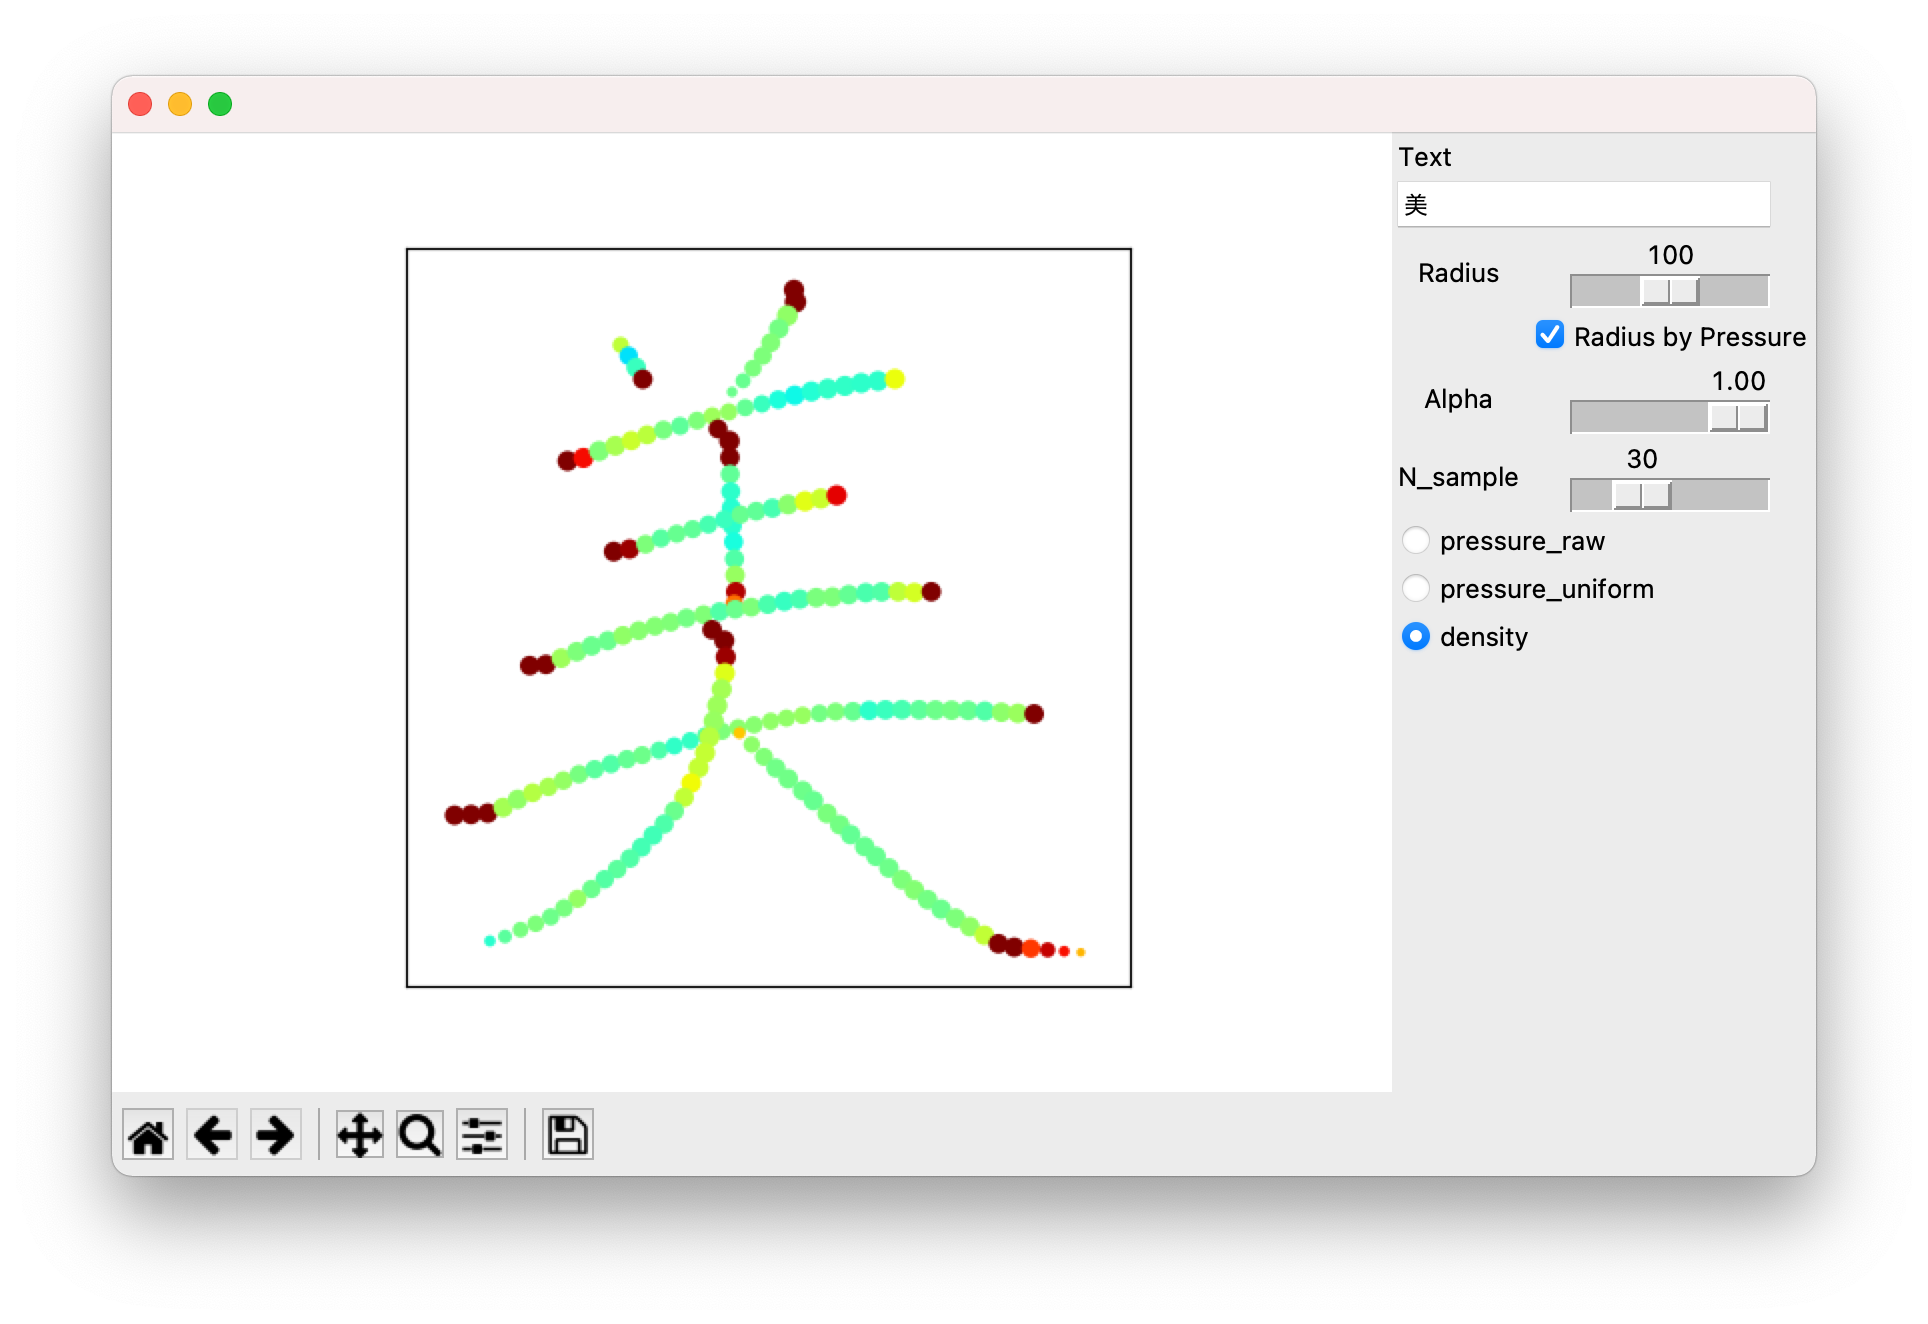
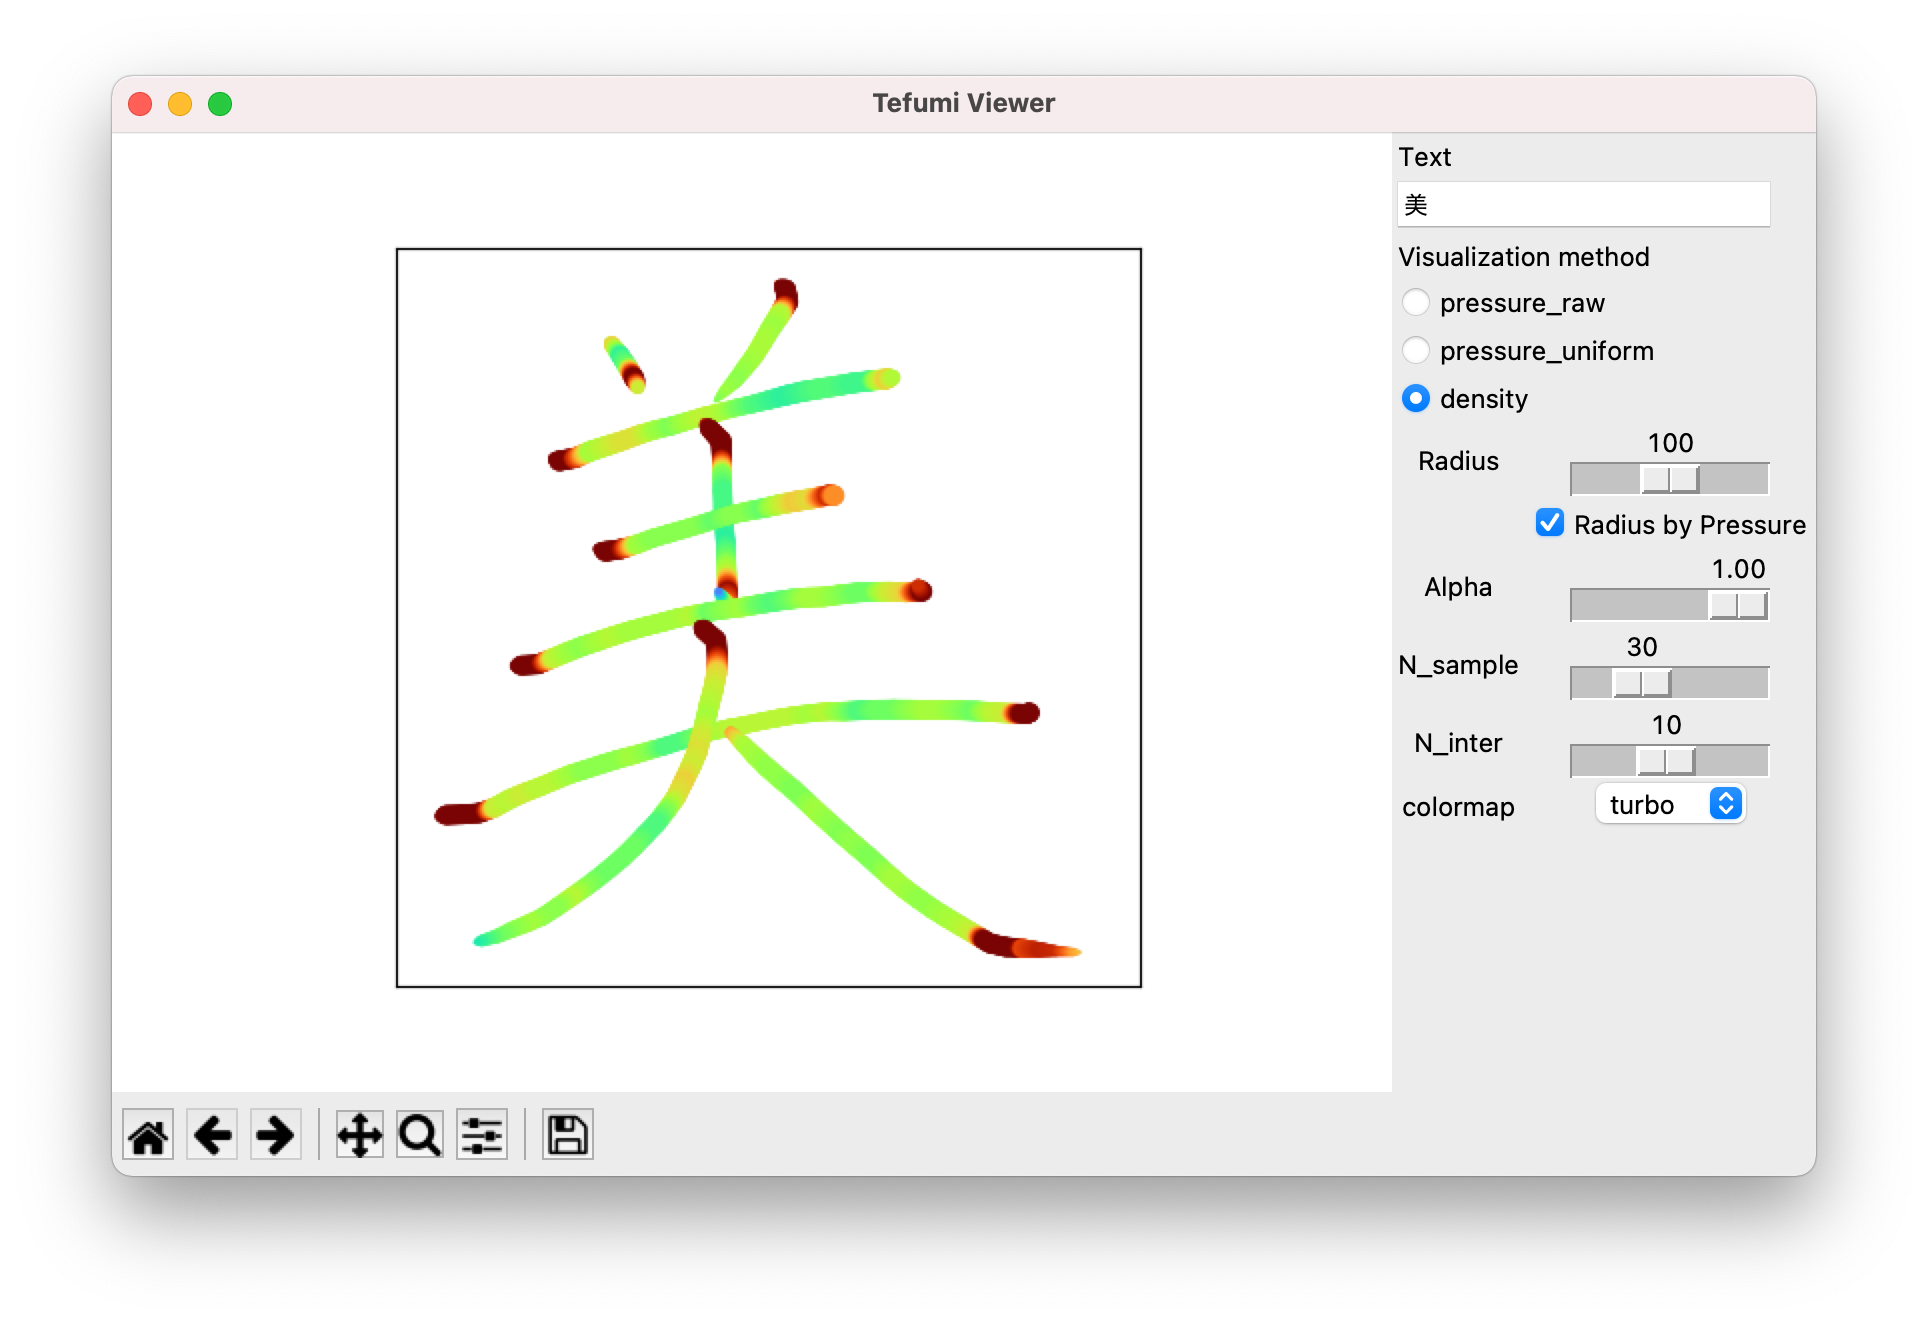
update-vis

diff --git a/demo.py b/demo.py
@@ -14,7 +14,7 @@ class Application(tk.Frame):
         super().__init__(master)
         self.master = master
         self.master.title('Tefumi Viewer')
-                    
+        
         #-----------------------------------------------
         frame = tk.Frame(self.master)        
         self.fig = Figure()
@@ -31,9 +31,25 @@ class Application(tk.Frame):
             self.text.insert(tk.END, text)
         self.text.bind('<Return>', self.on_enter)
         self.text.pack(anchor=tk.NW)
-        #-----------------------------------------------
+
+        # visualization method -----------------------------------------------
+        tk.Label(self.master, text="Visualization method").pack(anchor=tk.NW)
+        self.radio_value = tk.IntVar(value = 0)
+        self.method_values = {
+            "pressure_raw": 0,
+            "pressure_uniform": 1,
+            "density": 2
+        }
+        self.method = list(self.method_values.keys())[0]
+        for k, value in self.method_values.items():
+            ttk.Radiobutton(
+                self.master, text = k, variable = self.radio_value, value = value, 
+                command = self.method_changed).pack(anchor=tk.NW)
+
+        # visual options -----------------------------------------------
         frame = tk.Frame(self.master)
 
+        #-----------------------------------------------
         tk.Label(frame, text="Radius").grid(row=0, column=0)
         slider_radius = tk.Scale(
             frame, from_=1, to=200, orient=tk.HORIZONTAL, 
@@ -64,21 +80,27 @@ class Application(tk.Frame):
         self.n_sample = 30
         slider_n_sample.set(self.n_sample)
         slider_n_sample.grid(row=3, column=1)
-
-        frame.pack(anchor=tk.NW)
         
         #-----------------------------------------------
-        self.radio_value = tk.IntVar(value = 0)
-        self.method_values = {
-            "pressure_raw": 0,
-            "pressure_uniform": 1,
-            "density": 2
-        }
-        self.method = list(self.method_values.keys())[0]
-        for k, value in self.method_values.items():
-            ttk.Radiobutton(
-                self.master, text = k, variable = self.radio_value, value = value, 
-                command = self.method_changed).pack(anchor=tk.NW)
+        tk.Label(frame, text="N_inter").grid(row=4, column=0)
+        slider_n_inter = tk.Scale(
+            frame, from_=1, to=20, orient=tk.HORIZONTAL, 
+            command = self.slider_n_inter_changed)
+        self.n_inter = 1
+        slider_n_inter.set(self.n_inter)
+        slider_n_inter.grid(row=4, column=1)
+        
+        #-----------------------------------------------
+        # https://matplotlib.org/3.5.0/tutorials/colors/colormaps.html
+        tk.Label(frame, text="colormap").grid(row=5, column=0)
+        options = ["turbo", "jet", "Spectral", "viridis", "plasma", "inferno", "magma", "cividis"]
+        self.colormap_var = tk.StringVar(frame)
+        self.colormap_var.set(options[0])
+        self.colormap_menu = tk.OptionMenu(frame, self.colormap_var, *options, command=self.optionmenu_changed)
+        self.colormap_menu.grid(row=5, column=1)
+        
+        #-----------------------------------------------
+        frame.pack(anchor=tk.NW)
         
         ### load stroke data -----------------------------------------------
         with gzip.open("data.json.gz", "rt") as f:
@@ -104,7 +126,10 @@ class Application(tk.Frame):
                 radius=self.radius, 
                 alpha=self.alpha, 
                 n_sample=self.n_sample,
-                radius_by_pressure=self.radius_by_pressure.get())
+                n_interpolate=self.n_inter, 
+                radius_by_pressure=self.radius_by_pressure.get(),
+                cmap=self.colormap_var.get(),
+                )
         self.fig_canvas.draw()
         
     def slider_changed(self, v):
@@ -116,14 +141,21 @@ class Application(tk.Frame):
         self.draw()
     
     def slider_n_sample_changed(self, v):
-        self.n_sample = float(v)
+        self.n_sample = int(v)
+        self.draw()
+
+    def slider_n_inter_changed(self, v):
+        self.n_inter = int(v)
         self.draw()
         
     def method_changed(self):
         methods = list(self.method_values.keys())
         self.method = methods[int(self.radio_value.get())]
         self.draw()
-        
+
+    def optionmenu_changed(self, v):
+        self.draw()
+
     def on_enter(self, v):
         self.fig.clf()
         self.axes = []

diff --git a/vis.py b/vis.py
@@ -2,6 +2,7 @@ import os, sys
 import numpy as np
 import json
 import gzip
+import argparse
 
 import matplotlib as mpl
 mpl.use('TkAgg')
@@ -11,13 +12,22 @@ from matplotlib.widgets import Slider, Button
 
 import utils
 
-def drawChar(data, name, ax, method="density", radius=100, alpha=1, n_sample=30, n_interpolate=10, radius_by_pressure=True):
+def drawChar(
+        data, char_, ax, 
+        method="density", 
+        radius=100, 
+        alpha=1, 
+        n_sample=30, 
+        n_interpolate=10, 
+        radius_by_pressure=True,
+        cmap="jet"):
+    
     ax.cla()
-
-    a = data.get(name)
+    a = data.get(char_)
     if a is None:
-        print('Not exist:', name)
+        print('Not exist:', char_)
         return
+
     x_strokes = a["x"]
     y_strokes = a["y"]
     p_strokes = a["pressure"]
@@ -29,43 +39,54 @@ def drawChar(data, name, ax, method="density", radius=100, alpha=1, n_sample=30,
         Xs = np.asarray(Xs)
         Ys = np.asarray(Ys)
         Ps = np.asarray(Ps)
-        median = np.median(Ps)
+        Ps_med = np.median(Ps)
         
         if method == "density":
-            Xs, Ys, Ps = utils.calc_inter_values(Xs, Ys, Ps, n_interpolate)  ## 点の間を補間
             Xs, Ys, Ps, Ds = utils.calc_density(Xs, Ys, Ps, n_sample)
-            Ps = (Ps - median) + 0.5
-            D_md = np.median(Ds)
+            Xs, Ys, Ps, Ds = utils.calc_interpolation([Xs, Ys, Ps, Ds], n_interpolate)  ## 点の間を補間
+            Ps = (Ps - Ps_med) + 0.5
             ax.scatter(
                 Xs, -Ys, s=radius*Ps if radius_by_pressure else radius, 
-                c=Ds, cmap='jet', norm=Normalize(0,1), alpha=alpha, linewidths=0)
+                c=Ds, cmap=cmap, norm=Normalize(0,1), alpha=alpha, linewidths=0)
         elif method == "pressure_uniform":
-            Xs, Ys, Ps = utils.calc_inter_values(Xs, Ys, Ps, n_interpolate)  ## 点の間を補間
             Xs, Ys, Ps, _ = utils.uniform_stroke(Xs, Ys, Ps, n_sample)  ## 等間隔にサンプル
-            Ps = (Ps - median) + 0.5
+            Xs, Ys, Ps = utils.calc_interpolation([Xs, Ys, Ps], n_interpolate)  ## 点の間を補間
+            Ps = (Ps - Ps_med) + 0.5
             ax.scatter(
                 Xs, -Ys, s=radius*Ps if radius_by_pressure else radius, 
-                c=Ps, cmap='jet', norm=Normalize(0,1), alpha=alpha, linewidths=0)
+                c=Ps, cmap=cmap, norm=Normalize(0,1), alpha=alpha, linewidths=0)
         elif method == "pressure_raw":
-            Ps = (Ps - median) + 0.5
+            Ps = (Ps - Ps_med) + 0.5
             ax.scatter(
                 Xs, -Ys, s=radius*Ps if radius_by_pressure else radius, 
-                c=Ps, cmap='jet', norm=Normalize(0,1), alpha=alpha, linewidths=0)
-    
-    # ax.axis('off')
-    
+                c=Ps, cmap=cmap, norm=Normalize(0,1), alpha=alpha, linewidths=0)
 
-def drawChars(data, text):
-    fig, axes = plt.subplots(1,len(text), figsize=(len(text)*4, 4))
+
+def drawChars(data, text, opt):
+    fig, axes = plt.subplots(1,len(text)*3, figsize=(len(text)*4*3, 4))
     
-    drawChar(data, text[0], axes, "pressure_raw")
+    drawChar(data, text[0], axes[0], "pressure_raw", opt.radius, opt.alpha, opt.n_sample, opt.n_interpolate, opt.radius_by_pressure, opt.colormap)
+    drawChar(data, text[0], axes[1], "pressure_uniform", opt.radius, opt.alpha, opt.n_sample, opt.n_interpolate, opt.radius_by_pressure, opt.colormap)
+    drawChar(data, text[0], axes[2], "density", opt.radius, opt.alpha, opt.n_sample, opt.n_interpolate, opt.radius_by_pressure, opt.colormap)
         
     plt.show()
 
 
 if __name__ == '__main__':
+    parser = argparse.ArgumentParser()
+    parser.add_argument("--text", type=str, default="美")
+    parser.add_argument("--method", type=str, default="density", help="[density/pressure_raw/pressure_uniform]")
+    parser.add_argument("--radius", type=int, default=100)
+    parser.add_argument("--alpha", type=float, default=1)
+    parser.add_argument("--n_sample", type=int, default=30)
+    parser.add_argument("--n_interpolate", type=int, default=10)
+    parser.add_argument("--radius_by_pressure", action="store_true")
+    parser.add_argument("--colormap", type=str, default="jet")
+    
+    opts = parser.parse_args()
+
     with gzip.open("data.json.gz", "rt") as f:
         data = json.load(f)
 
-    drawChars(data, sys.argv[1])
+    drawChars(data, opts.text, opts)
 

diff --git a/utils.py b/utils.py
@@ -2,16 +2,18 @@ from re import S
 import numpy as np
 
 
-def calc_inter_values(Xs, Ys, Ps, n_inter=10):
+def calc_inter_values(Xs, n_inter=10):
     xs = np.array([])
-    ys = np.array([])
-    ps = np.array([])
     for i in range(len(Xs) - 1):
         xs = np.append(xs, np.linspace(Xs[i], Xs[i+1], n_inter))
-        ys = np.append(ys, np.linspace(Ys[i], Ys[i+1], n_inter))
-        ps = np.append(ps, np.linspace(Ps[i], Ps[i+1], n_inter))
+    return xs
 
-    return xs, ys, ps
+
+def calc_interpolation(arrays, n_inter=10):
+    out = []
+    for Xs in arrays:
+        out.append(calc_inter_values(Xs, n_inter))
+    return out    
 
 
 def calc_dists(Xs, Ys):
@@ -36,19 +38,30 @@ def uniform_stroke(Xs, Ys, Ps, n_points_per_length=10, use_secret=True):
 
     target_values = np.linspace(0, total_length, int(total_length * n_points_per_length)+2)
     ind = np.searchsorted(cdf, target_values, side='left')
+    # ind_right = np.searchsorted(cdf, target_values, side='right')
+        
+    # import matplotlib.pyplot as plt
+    # fig, ax = plt.subplots()
+    # ax.scatter(np.linspace(0, len(cdf), len(cdf)), cdf)
+    # ax.scatter(np.linspace(0, len(cdf), len(cdf))[ind], cdf[ind], marker="x")
+    # # for tv, x in zip(target_values, np.linspace(0, len(cdf), len(cdf))[ind]):
+    # for tv in target_values:
+    #     ax.plot([0,len(cdf)], [tv, tv], color="gray")
+    #     # ax.scatter(np.linspace(0, len(cdf), len(cdf))[ind], target_values, marker="x")    
 
     if use_secret:
-        ind_l = ind#[:-1]
-        ind_r = np.clip(ind + 1, 0, ind[-1])
+        ind1 = ind[1:]
+        ind0 = np.clip(ind1 - 1, 0, ind[-1])
 
-        tl = np.abs(cdf[ind_l] - target_values)
-        tr = np.abs(cdf[ind_r] - target_values)
-        t = tl / (tl + tr)
+        t0 = target_values[1:] - cdf[ind0]
+        t1 = cdf[ind1] - target_values[1:]
+        t = t0 / (t0 + t1)
 
         def secret(x):
-            xl = x[ind_l]
-            xr = x[ind_r]    
-            return (1-t) * xl + t * xr
+            x0 = x[ind0]
+            x1 = x[ind1]
+            xt = (1-t) * x0 + t * x1
+            return np.append(x[0], xt)
 
         return secret(Xs), secret(Ys), secret(Ps), (ind, cdf)
     else:
